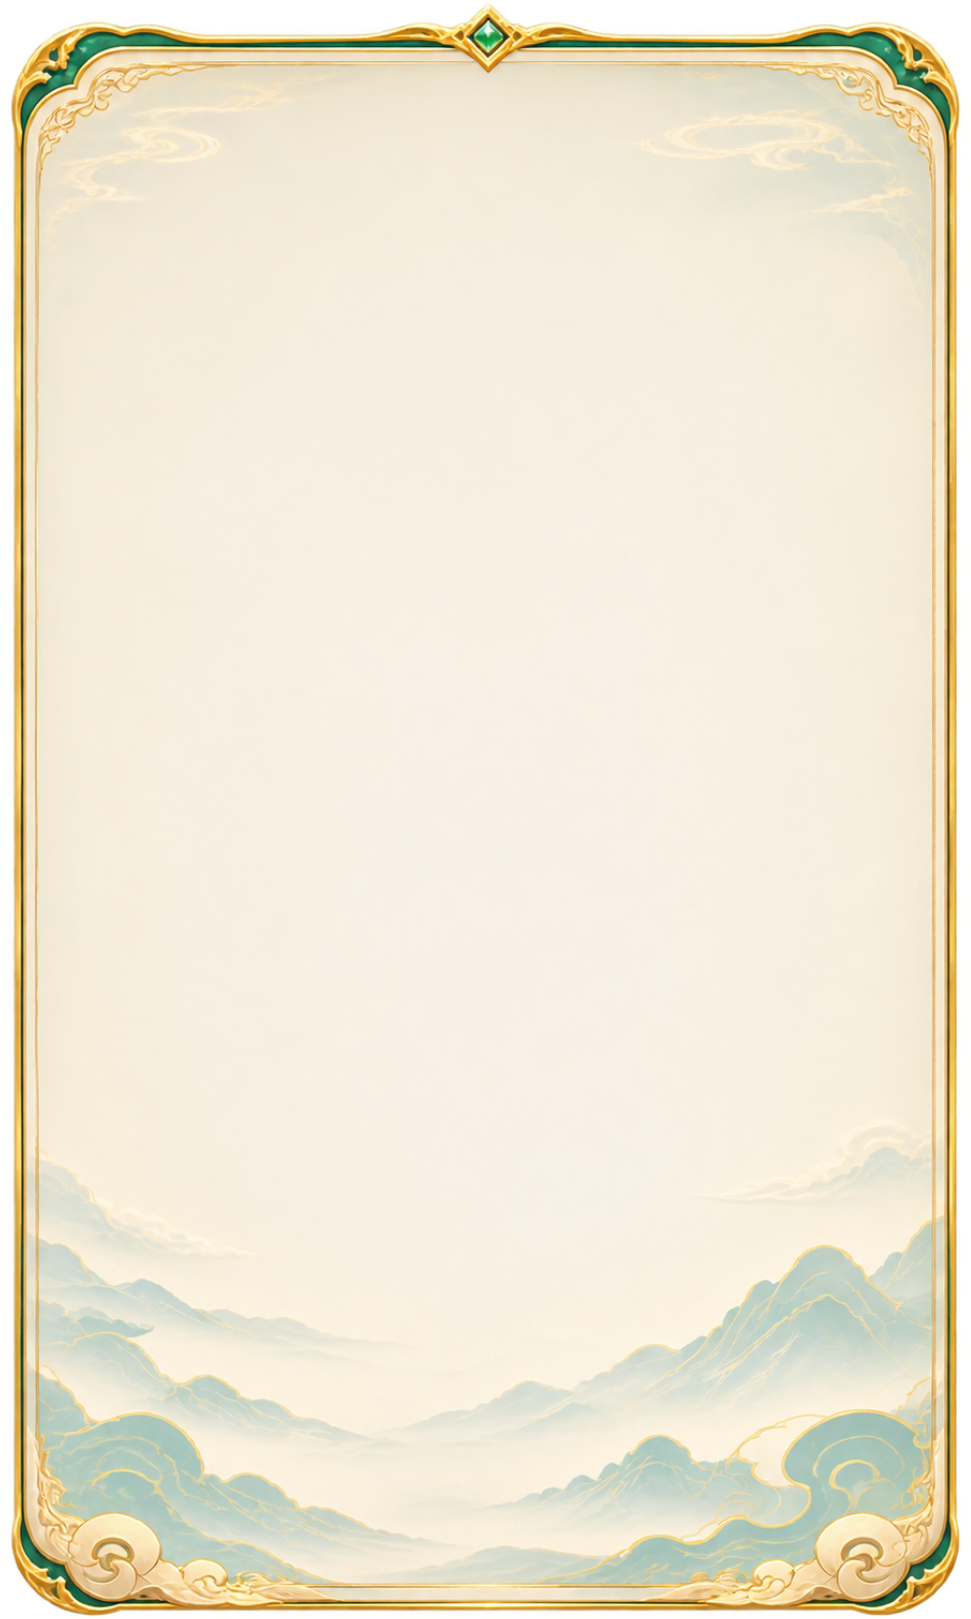
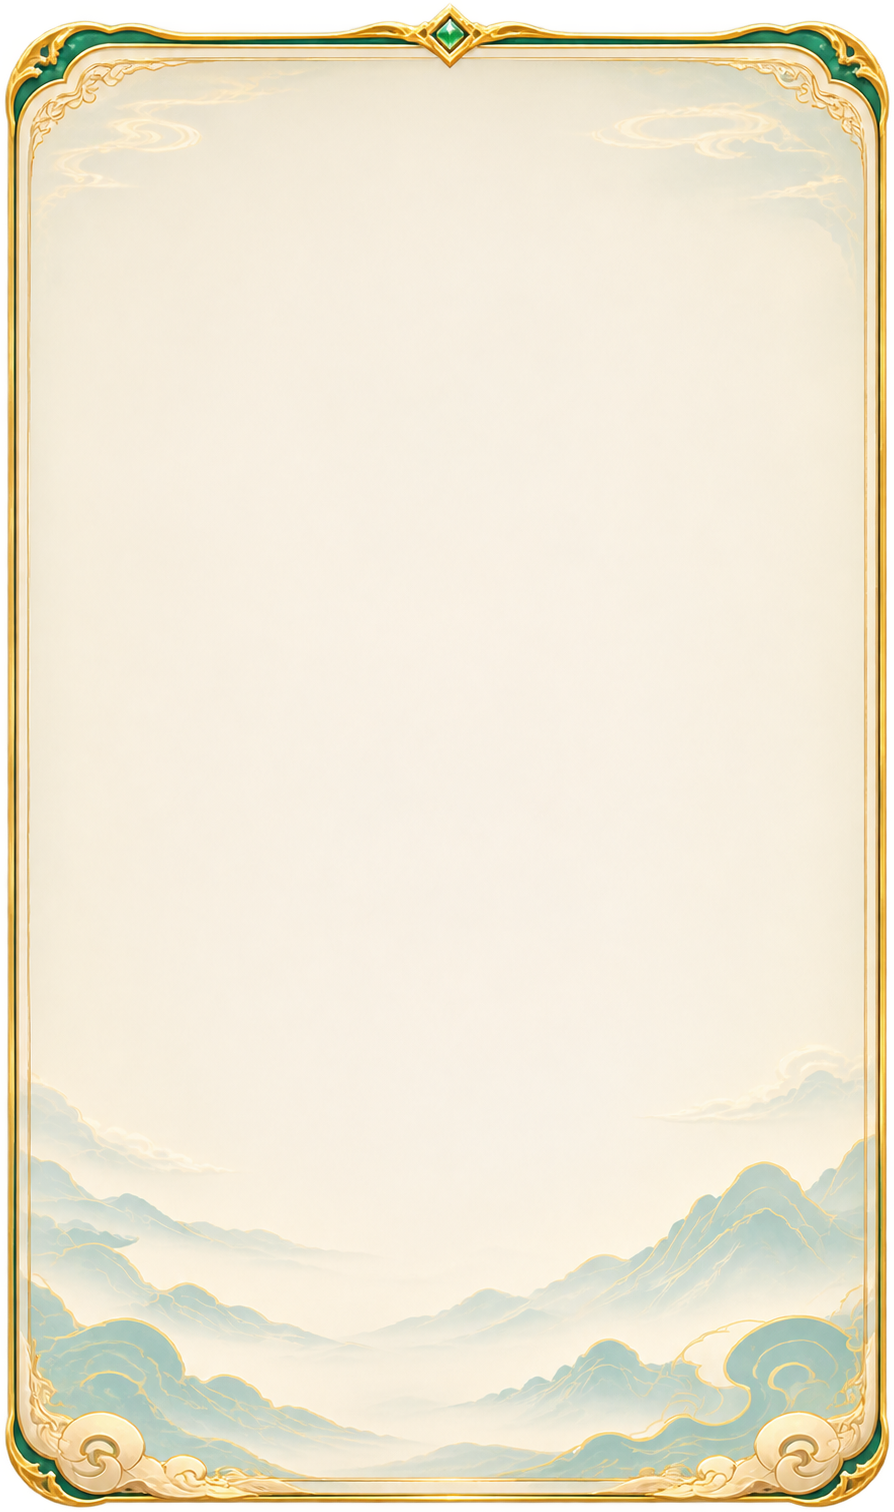
.

diff --git a/src/components/ServerSelectScreen.tsx b/src/components/ServerSelectScreen.tsx
@@ -38,7 +38,7 @@ const FAKE_SERVERS: ServerInfo[] = [
     status: 'crowded',
     statusText: 'Đông',
     statusColor: 'text-[#dc2626]',
-    dotColor: 'bg-emerald-500',
+    dotColor: 'bg-red-500', // Màu tương ứng với Đông (Đỏ)
     hasCharacter: true,
     characterName: 'Nam Tạ Vân',
     level: 85,
@@ -51,7 +51,7 @@ const FAKE_SERVERS: ServerInfo[] = [
     status: 'good',
     statusText: 'Tốt',
     statusColor: 'text-emerald-700',
-    dotColor: 'bg-emerald-500',
+    dotColor: 'bg-emerald-500', // Màu tương ứng với Tốt (Xanh lá)
     isNew: true,
     category: ['all', 'new'],
   },
@@ -61,7 +61,7 @@ const FAKE_SERVERS: ServerInfo[] = [
     status: 'good',
     statusText: 'Tốt',
     statusColor: 'text-emerald-700',
-    dotColor: 'bg-emerald-500',
+    dotColor: 'bg-emerald-500', // Màu tương ứng với Tốt (Xanh lá)
     isNew: true,
     category: ['all', 'new'],
   },
@@ -71,7 +71,7 @@ const FAKE_SERVERS: ServerInfo[] = [
     status: 'stable',
     statusText: 'Ổn',
     statusColor: 'text-amber-700',
-    dotColor: 'bg-amber-500',
+    dotColor: 'bg-amber-400', // Màu tương ứng với Ổn Định (Vàng)
     category: ['all', 'old'],
   },
   {
@@ -80,7 +80,7 @@ const FAKE_SERVERS: ServerInfo[] = [
     status: 'good',
     statusText: 'Tốt',
     statusColor: 'text-emerald-700',
-    dotColor: 'bg-emerald-500',
+    dotColor: 'bg-emerald-500', // Màu tương ứng với Tốt (Xanh lá)
     category: ['all', 'old'],
   },
 ];
@@ -110,8 +110,8 @@ export const ServerSelectScreen: React.FC<ServerSelectScreenProps> = ({
   const characterName = currentUser?.displayName || playedServer.characterName || 'Nam Tạ Vân';
   const serverCode = playedServer.name.split(' - ')[0] || playedServer.id.toUpperCase();
 
-  // Danh mục sidebar tabs (Bỏ icon theo yêu cầu của user)
-  const categories: { key: CategoryType; label: string; badge?: string }[] = [
+  // Danh mục sidebar tabs (Bỏ icon và badge theo yêu cầu)
+  const categories: { key: CategoryType; label: string }[] = [
     {
       key: 'all',
       label: 'Tất Cả',
@@ -123,7 +123,6 @@ export const ServerSelectScreen: React.FC<ServerSelectScreenProps> = ({
     {
       key: 'new',
       label: 'Máy Chủ Mới',
-      badge: 'NEW',
     },
     {
       key: 'played',
@@ -287,8 +286,8 @@ export const ServerSelectScreen: React.FC<ServerSelectScreenProps> = ({
                       </div>
                     )}
 
-                    {/* Nội dung Tab: Chữ căn giữa chuẩn chỉnh, không icon */}
-                    <div className="relative z-10 flex items-center justify-center gap-1 w-full px-1.5">
+                    {/* Nội dung Tab: Chữ căn giữa chuẩn chỉnh, không icon hay badge */}
+                    <div className="relative z-10 flex items-center justify-center w-full px-1.5">
                       <span
                         className={`text-[11px] sm:text-xs truncate tracking-tight text-center ${
                           isSelected
@@ -298,11 +297,6 @@ export const ServerSelectScreen: React.FC<ServerSelectScreenProps> = ({
                       >
                         {cat.label}
                       </span>
-                      {cat.badge && (
-                        <span className="bg-red-600 text-white text-[8px] font-black px-1 rounded shadow-xs leading-none flex-shrink-0">
-                          {cat.badge}
-                        </span>
-                      )}
                     </div>
                   </button>
                 );
@@ -350,19 +344,16 @@ export const ServerSelectScreen: React.FC<ServerSelectScreenProps> = ({
 
                   {/* NHÓM 2: MÁY CHỦ MỚI */}
                   <div className="flex flex-col gap-1 pt-0.5">
-                    {/* Header Ribbon Máy Chủ Mới - Không bị cắt mất viền ảnh */}
-                    <div className="relative w-[155px] sm:w-[170px] aspect-[2172/724] mx-auto -my-1.5 flex items-center justify-center flex-shrink-0">
+                    {/* Header Ribbon Máy Chủ Mới - Đồng bộ kích thước và bỏ badge NEW */}
+                    <div className="relative w-[140px] sm:w-[155px] aspect-[2172/724] mx-auto -my-1.5 flex items-center justify-center flex-shrink-0">
                       <img
                         src={khungTitleFilter}
                         alt="Máy Chủ Mới"
                         className="w-full h-full object-contain pointer-events-none drop-shadow-xs"
                       />
-                      <div className="absolute inset-0 flex items-center justify-center gap-1 font-bold text-[11px] sm:text-xs text-amber-200 tracking-wide drop-shadow-xs">
-                        <span>Máy Chủ Mới</span>
-                        <span className="bg-red-600 text-white text-[8px] font-black px-1 rounded shadow-xs leading-none">
-                          NEW
-                        </span>
-                      </div>
+                      <span className="absolute inset-0 flex items-center justify-center font-bold text-[11px] sm:text-xs text-amber-200 tracking-wide drop-shadow-xs">
+                        Máy Chủ Mới
+                      </span>
                     </div>
 
                     {FAKE_SERVERS.filter((s) => s.category.includes('new')).map((srv) => (
@@ -510,32 +501,26 @@ const ServerRow: React.FC<ServerRowProps> = ({ server, isSelected, onSelect }) =
       )}
 
       {/* Nội dung bên trong dòng server */}
-      <div className="absolute inset-0 px-3 sm:px-3.5 flex items-center justify-between pointer-events-none">
-        {/* Vế Trái: Chấm trạng thái + Tên máy chủ + Huy hiệu Có nhân vật */}
-        <div className="flex items-center gap-1.5 sm:gap-2 min-w-0 pr-1">
-          {/* Chấm tròn trạng thái */}
-          <span className={`w-2 h-2 sm:w-2.5 sm:h-2.5 rounded-full flex-shrink-0 ${server.dotColor} shadow-xs`} />
+      <div className="absolute inset-0 pl-[22px] sm:pl-[25px] pr-3 sm:pr-3.5 flex items-center pointer-events-none">
+        {/* Vế Trái: Chấm trạng thái màu tương ứng + Tên máy chủ (dịch sang phải một chút) */}
+        <div className="flex items-center gap-1.5 sm:gap-2 min-w-0">
+          {/* Chấm tròn trạng thái với màu tương ứng (Đông = Đỏ, Tốt = Xanh lá, Ổn = Vàng) */}
+          <span
+            className={`w-2.5 h-2.5 sm:w-3 sm:h-3 rounded-full flex-shrink-0 ${server.dotColor} shadow-xs ring-1 ring-black/15`}
+          />
 
           {/* Tên Máy Chủ */}
           <span className="font-black text-xs sm:text-sm text-[#14231b] truncate drop-shadow-xs">
             {server.name}
           </span>
-
-          {/* Huy hiệu Có Nhân Vật */}
-          {server.hasCharacter && (
-            <span className="bg-[#1b4332] text-white text-[8px] sm:text-[9px] font-extrabold px-1.5 py-0.5 rounded-full flex items-center gap-0.5 ml-1 shadow-xs flex-shrink-0">
-              <span>👤</span>
-              <span>Có nhân vật</span>
-            </span>
-          )}
         </div>
 
-        {/* Vế Phải: Chữ trạng thái (Đông, Tốt, Ổn) */}
-        <span
-          className={`text-xs sm:text-sm font-black flex-shrink-0 drop-shadow-xs ${server.statusColor}`}
-        >
-          {server.statusText}
-        </span>
+        {/* Huy hiệu Có Nhân Vật - Giữ nguyên vị trí ban đầu */}
+        {server.hasCharacter && (
+          <span className="absolute left-[114px] sm:left-[122px] bg-[#1b4332] text-[#8cf0c8] text-[8px] sm:text-[9px] font-extrabold px-1.5 py-0.5 rounded-full shadow-xs flex-shrink-0">
+            Có nhân vật
+          </span>
+        )}
       </div>
     </div>
   );
